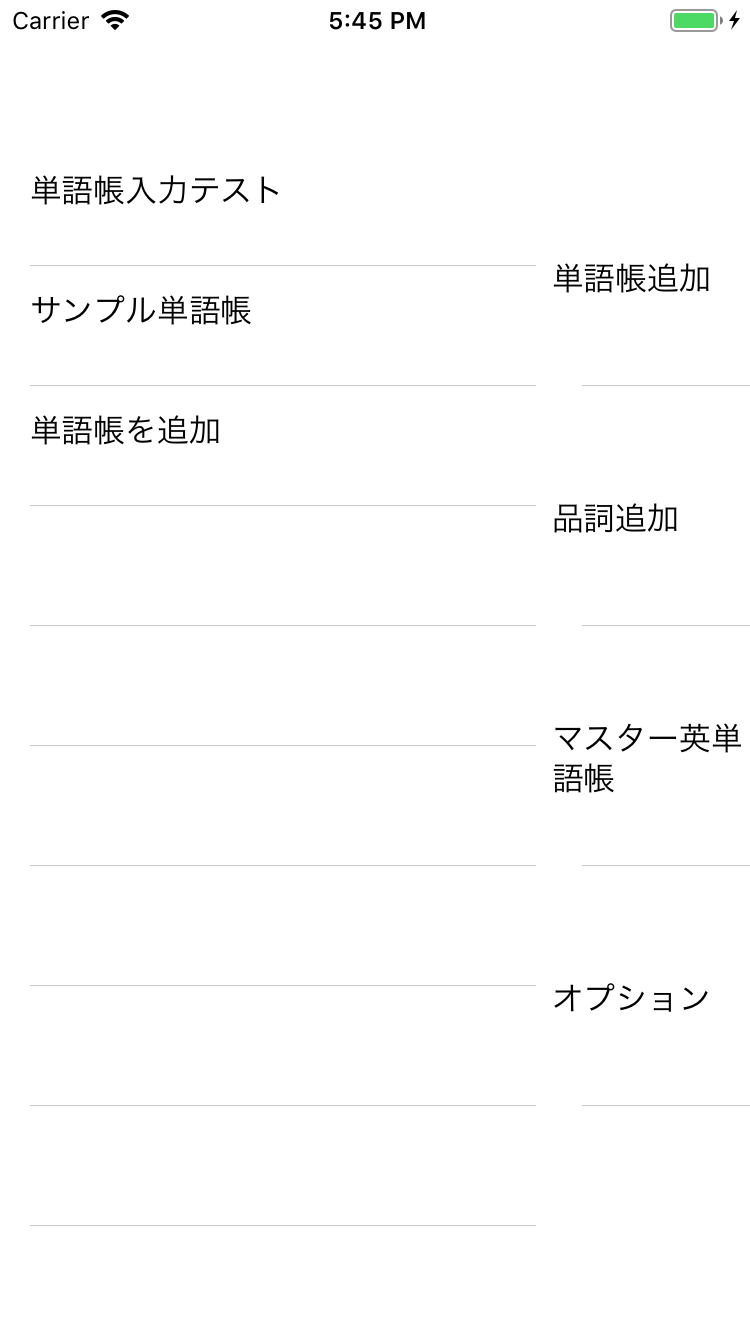
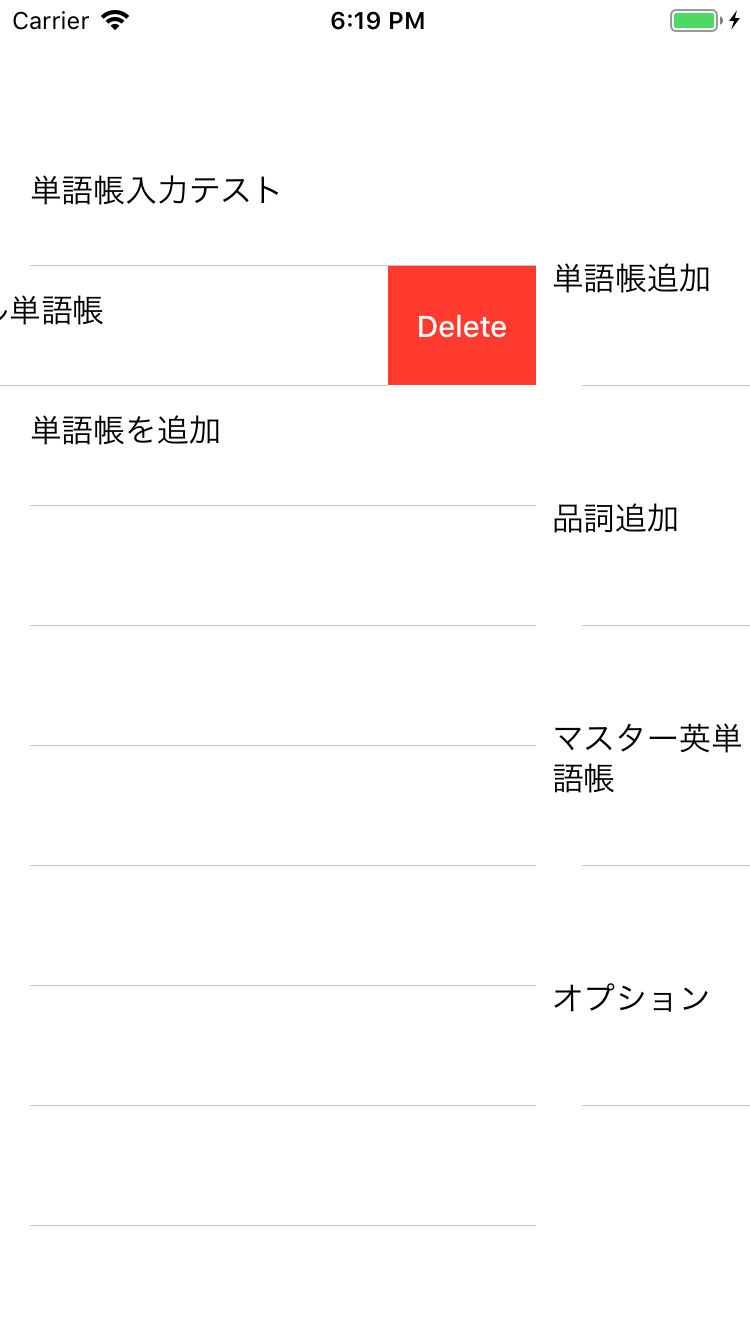
トップ画面の全てのセルがスワイプ削除有効になっていたため、単語帳だけスワイプできるように設定

Changed region(s): [[0.4907, 0.1844, 0.736, 0.3073], [0.0, 0.2151, 0.3373, 0.2459], [0.4293, 0.0, 0.5827, 0.0307]]

diff --git a/EnglishWords/EnglishWords/ViewController.swift b/EnglishWords/EnglishWords/ViewController.swift
@@ -43,10 +43,8 @@ class ViewController: UIViewController, UITableViewDelegate, UITableViewDataSour
                    numberOfRowsInSection section: Int) -> Int {
         
         if table.tag == 1 {
-            print(sidebarlist.count)
             return sidebarlist.count
         }else{
-            print(booknamelist.count)
             return booknamelist.count
         }
     }
@@ -54,7 +52,6 @@ class ViewController: UIViewController, UITableViewDelegate, UITableViewDataSour
     //各セルの要素を設定する
     func tableView(_ table: UITableView,
                    cellForRowAt indexPath: IndexPath) -> UITableViewCell {
-        print(table.tag)
         if table.tag == 1 {
             // tableCell の ID で UITableViewCell のインスタンスを生成
             let cell = table.dequeueReusableCell(withIdentifier: "sidetablecell",
@@ -103,6 +100,19 @@ class ViewController: UIViewController, UITableViewDelegate, UITableViewDataSour
             let subVC: ConfigureWordNoteBookViewController = (segue.destination as? ConfigureWordNoteBookViewController)!
             //遷移先の画面に選択した単語帳を表示
             subVC.wordnotebook = wordnotebook!
+        }
+    }
+    
+    //指定したテーブル、セル毎にスワイプを有効、無効にする
+    func tableView(_ tableView: UITableView, canEditRowAt indexPath: IndexPath) -> Bool {
+        if tableView.tag == 0 {
+            if indexPath.row == indexPath.count {
+                return false
+            }else{
+                return true
+            }
+        }else{
+            return false
         }
     }
     
